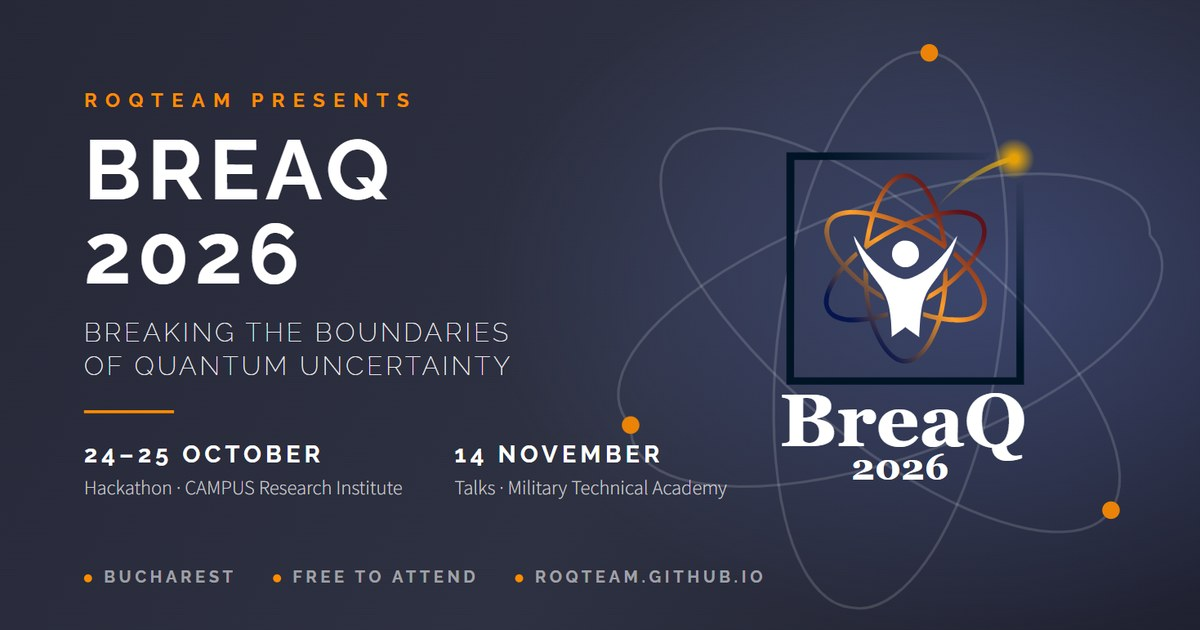
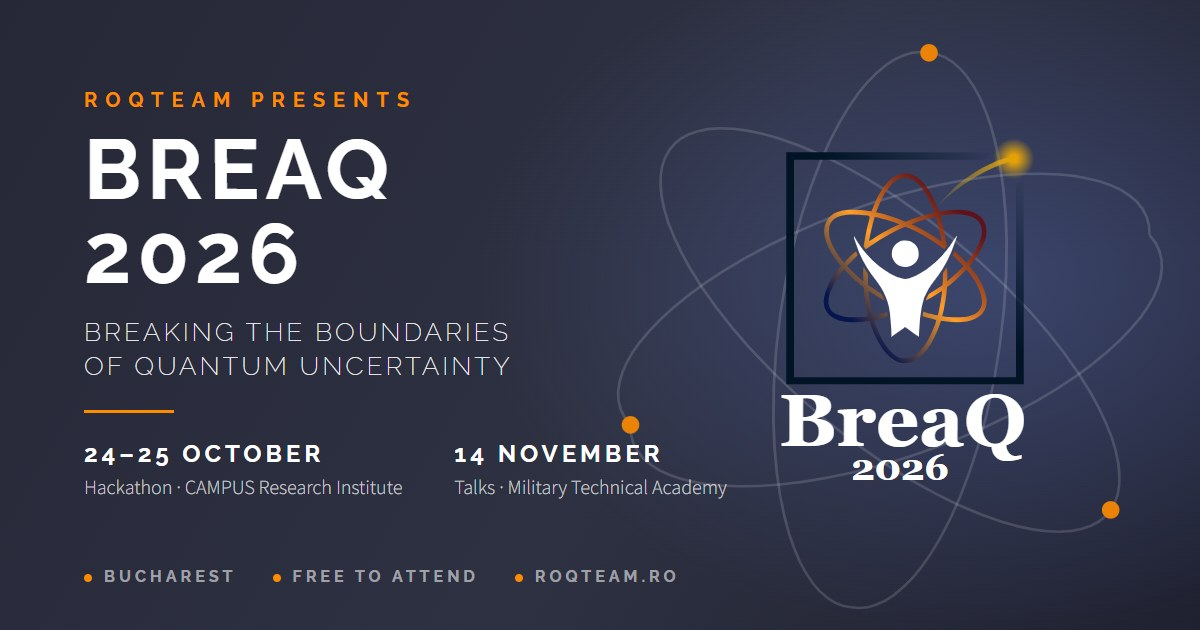
Site domain is roqteam.ro; calendar as a real .ics file with Google Calendar and webcal options
- All absolute URLs (Open Graph, JSON-LD, calendar files, share card) use
  https://roqteam.ro
- breaq-2026.ics is a static file: phones open it straight in their
  calendar app (iOS shows "Add All"); the button links to it
- Google Calendar one-tap links for each date, and a webcal subscription
  link for iPhone and Mac that follows later changes to the file
- Share card re-rendered with the domain; render source laid out 1:1

diff --git a/breaq.html b/breaq.html
@@ -6,12 +6,12 @@
 		<meta property="og:type" content="website" />
 		<meta property="og:title" content="BreaQ 2026 · Breaking the Boundaries of Quantum Uncertainty" />
 		<meta property="og:description" content="BreaQ 2026: a 24-hour quantum hackathon on 24–25 October at the CAMPUS Research Institute and a day of talks on 14 November at the Military Technical Academy “Ferdinand I”, Bucharest. Free to attend." />
-		<meta property="og:image" content="https://roqteam.github.io/images/share/breaq-2026.jpg" />
-		<meta property="og:url" content="https://roqteam.github.io/breaq.html" />
+		<meta property="og:image" content="https://roqteam.ro/images/share/breaq-2026.jpg" />
+		<meta property="og:url" content="https://roqteam.ro/breaq.html" />
 		<meta name="twitter:card" content="summary_large_image" />
 		<!-- Times below are approximate for the hackathon end and the talks; adjust with the programme -->
 		<script type="application/ld+json">
-		{"@context": "https://schema.org", "@type": "Event", "name": "BreaQ 2026", "description": "BreaQ 2026, RoQTeam's annual quantum event in Bucharest: a 24-hour quantum hackathon on 24–25 October at the CAMPUS Research Institute and a day of talks on 14 November at the Military Technical Academy “Ferdinand I”. Free to attend.", "image": "https://roqteam.github.io/images/share/breaq-2026.jpg", "url": "https://roqteam.github.io/breaq.html", "startDate": "2026-10-24T09:00:00+03:00", "endDate": "2026-11-14", "eventStatus": "https://schema.org/EventScheduled", "eventAttendanceMode": "https://schema.org/OfflineEventAttendanceMode", "location": [{"@type": "Place", "name": "CAMPUS Research Institute", "address": {"@type": "PostalAddress", "streetAddress": "Splaiul Independenței 313", "addressLocality": "București", "postalCode": "060042", "addressCountry": "RO"}}, {"@type": "Place", "name": "Military Technical Academy “Ferdinand I”", "address": {"@type": "PostalAddress", "streetAddress": "Bulevardul George Coșbuc 39-49", "addressLocality": "București", "postalCode": "050141", "addressCountry": "RO"}}], "subEvent": [{"@type": "Event", "name": "BreaQ 2026 Hackathon", "startDate": "2026-10-24T09:00:00+03:00", "endDate": "2026-10-25T14:00:00+02:00", "location": {"@type": "Place", "name": "CAMPUS Research Institute", "address": "Splaiul Independenței 313, București"}}, {"@type": "Event", "name": "BreaQ 2026 Presentations", "startDate": "2026-11-14T09:00:00+02:00", "endDate": "2026-11-14T18:00:00+02:00", "location": {"@type": "Place", "name": "Military Technical Academy “Ferdinand I”", "address": "Bulevardul George Coșbuc 39-49, București"}}], "organizer": {"@type": "Organization", "name": "RoQTeam", "url": "https://roqteam.github.io/", "email": "partnerships@roqteam.ro"}, "offers": {"@type": "Offer", "url": "https://forms.gle/o1wqxXgzeF2QGtxC7", "price": "0", "priceCurrency": "RON", "availability": "https://schema.org/InStock"}, "isAccessibleForFree": true}
+		{"@context": "https://schema.org", "@type": "Event", "name": "BreaQ 2026", "description": "BreaQ 2026, RoQTeam's annual quantum event in Bucharest: a 24-hour quantum hackathon on 24–25 October at the CAMPUS Research Institute and a day of talks on 14 November at the Military Technical Academy “Ferdinand I”. Free to attend.", "image": "https://roqteam.ro/images/share/breaq-2026.jpg", "url": "https://roqteam.ro/breaq.html", "startDate": "2026-10-24T09:00:00+03:00", "endDate": "2026-11-14", "eventStatus": "https://schema.org/EventScheduled", "eventAttendanceMode": "https://schema.org/OfflineEventAttendanceMode", "location": [{"@type": "Place", "name": "CAMPUS Research Institute", "address": {"@type": "PostalAddress", "streetAddress": "Splaiul Independenței 313", "addressLocality": "București", "postalCode": "060042", "addressCountry": "RO"}}, {"@type": "Place", "name": "Military Technical Academy “Ferdinand I”", "address": {"@type": "PostalAddress", "streetAddress": "Bulevardul George Coșbuc 39-49", "addressLocality": "București", "postalCode": "050141", "addressCountry": "RO"}}], "subEvent": [{"@type": "Event", "name": "BreaQ 2026 Hackathon", "startDate": "2026-10-24T09:00:00+03:00", "endDate": "2026-10-25T14:00:00+02:00", "location": {"@type": "Place", "name": "CAMPUS Research Institute", "address": "Splaiul Independenței 313, București"}}, {"@type": "Event", "name": "BreaQ 2026 Presentations", "startDate": "2026-11-14T09:00:00+02:00", "endDate": "2026-11-14T18:00:00+02:00", "location": {"@type": "Place", "name": "Military Technical Academy “Ferdinand I”", "address": "Bulevardul George Coșbuc 39-49, București"}}], "organizer": {"@type": "Organization", "name": "RoQTeam", "url": "https://roqteam.ro/", "email": "partnerships@roqteam.ro"}, "offers": {"@type": "Offer", "url": "https://forms.gle/o1wqxXgzeF2QGtxC7", "price": "0", "priceCurrency": "RON", "availability": "https://schema.org/InStock"}, "isAccessibleForFree": true}
 		</script>
 		<meta charset="utf-8" />
 		<meta name="viewport" content="width=device-width, initial-scale=1, user-scalable=no" />
@@ -319,7 +319,8 @@
 													</div>
 												</div>
 												<p>Speakers, the full schedule and the hackathon challenges are announced in the coming weeks, here and on <a href="https://www.linkedin.com/company/roqteam/" target="_blank" rel="noopener">RoQTeam’s LinkedIn</a>. Want to give a talk? <a href="mailto:partnerships@roqteam.ro">Write to us</a>. Curious what a track looks like? <a href="breaq-2025.html#hackathon">See last year’s challenges</a>.</p>
-												<p class="next-actions"><a href="https://forms.gle/o1wqxXgzeF2QGtxC7" target="_blank" rel="noopener" class="button primary">Register to hear first</a> <a href="#" class="button" data-ics-events='[{"summary":"BreaQ 2026 Hackathon","start":"2026-10-24T09:00:00+03:00","end":"2026-10-25T14:00:00+02:00","location":"CAMPUS Research Institute, Splaiul Independenței 313, București","description":"24-hour quantum hackathon. Details: https://roqteam.github.io/breaq.html"},{"summary":"BreaQ 2026 Presentations","start":"2026-11-14T09:00:00+02:00","end":"2026-11-14T18:00:00+02:00","location":"Military Technical Academy Ferdinand I, Bulevardul George Coșbuc 39-49, București","description":"Talks by researchers and industry experts. Details: https://roqteam.github.io/breaq.html"}]' data-ics-name="breaq-2026.ics">Add both dates to calendar</a></p>
+												<p class="next-actions"><a href="https://forms.gle/o1wqxXgzeF2QGtxC7" target="_blank" rel="noopener" class="button primary">Register to hear first</a> <a href="breaq-2026.ics" class="button" type="text/calendar">Add both dates to calendar</a></p>
+												<p class="next-gcal">Google Calendar, one tap: <a href="https://calendar.google.com/calendar/render?action=TEMPLATE&amp;text=BreaQ+2026+Hackathon&amp;dates=20261024T060000Z%2F20261025T120000Z&amp;location=CAMPUS+Research+Institute%2C+Splaiul+Independen%C8%9Bei+313%2C+Bucure%C8%99ti&amp;details=24-hour+quantum+hackathon.+Details%3A+https%3A%2F%2Froqteam.ro%2Fbreaq.html" target="_blank" rel="noopener">hackathon</a> · <a href="https://calendar.google.com/calendar/render?action=TEMPLATE&amp;text=BreaQ+2026+Presentations&amp;dates=20261114T070000Z%2F20261114T160000Z&amp;location=Military+Technical+Academy+Ferdinand+I%2C+Bulevardul+George+Co%C8%99buc+39-49%2C+Bucure%C8%99ti&amp;details=Talks+by+researchers+and+industry+experts.+Details%3A+https%3A%2F%2Froqteam.ro%2Fbreaq.html" target="_blank" rel="noopener">presentations</a> · iPhone and Mac: <a href="webcal://roqteam.ro/breaq-2026.ics">subscribe</a>, it updates itself if the times change</p>
 											</div>
 										</div>
 									</section>

diff --git a/assets/js/breaq.js b/assets/js/breaq.js
@@ -259,11 +259,11 @@
 			var now = stamp(new Date().toISOString());
 			var lines = ['BEGIN:VCALENDAR', 'VERSION:2.0', 'PRODID:-//RoQTeam//BreaQ//EN', 'CALSCALE:GREGORIAN', 'METHOD:PUBLISH'];
 			events.forEach(function (e, i) {
-				lines.push('BEGIN:VEVENT', 'UID:breaq-2026-' + i + '-' + stamp(e.start) + '@roqteam.github.io', 'DTSTAMP:' + now,
+				lines.push('BEGIN:VEVENT', 'UID:breaq-2026-' + i + '-' + stamp(e.start) + '@roqteam.ro', 'DTSTAMP:' + now,
 					'DTSTART:' + stamp(e.start), 'DTEND:' + stamp(e.end), 'SUMMARY:' + esc(e.summary));
 				if (e.location) lines.push('LOCATION:' + esc(e.location));
 				if (e.description) lines.push('DESCRIPTION:' + esc(e.description));
-				lines.push('URL:https://roqteam.github.io/breaq.html', 'END:VEVENT');
+				lines.push('URL:https://roqteam.ro/breaq.html', 'END:VEVENT');
 			});
 			lines.push('END:VCALENDAR');
 			var blob = new Blob([lines.join('\r\n') + '\r\n'], { type: 'text/calendar;charset=utf-8' });
@@ -564,14 +564,14 @@
 			var lines = ['BEGIN:VCALENDAR', 'VERSION:2.0', 'PRODID:-//RoQTeam//BreaQ//EN', 'CALSCALE:GREGORIAN', 'METHOD:PUBLISH'];
 			events.forEach(function (e, i) {
 				lines.push('BEGIN:VEVENT');
-				lines.push('UID:' + panel.id + '-' + i + '-' + e.start + '@roqteam.github.io');
+				lines.push('UID:' + panel.id + '-' + i + '-' + e.start + '@roqteam.ro');
 				lines.push('DTSTAMP:' + stamp);
 				lines.push('DTSTART:' + e.start);
 				lines.push('DTEND:' + e.end);
 				lines.push(icsFold('SUMMARY:' + icsEscape(e.summary)));
 				if (location) lines.push(icsFold('LOCATION:' + icsEscape(location)));
 				if (e.description) lines.push(icsFold('DESCRIPTION:' + icsEscape(e.description)));
-				lines.push('URL:https://roqteam.github.io/breaq.html#schedule');
+				lines.push('URL:https://roqteam.ro/breaq.html#schedule');
 				lines.push('END:VEVENT');
 			});
 			lines.push('END:VCALENDAR');

diff --git a/tools/share-card.html b/tools/share-card.html
@@ -33,8 +33,8 @@
 		.card .foot i { display: inline-block; width: 8px; height: 8px; border-radius: 50%; background: #ff8c00; margin-right: 12px; vertical-align: middle; }
 		.icon { position: relative; width: 256px; height: 256px; border-radius: 56px; background: linear-gradient(135deg, #34385a 0%, #262838 100%); overflow: hidden; }
 		.icon img { position: absolute; left: 18px; top: 10px; width: 220px; height: 220px; }
-		/* laid out for capture: scaled so a 1200x630 capture of the browser frame is 1:1 */
-		.stage { position: absolute; left: 0; top: 0; transform: scale(1.2245); transform-origin: 0 0; }
+		/* laid out for capture at 1:1 CSS pixels: the card is exactly 1200x630 */
+		.stage { position: absolute; left: 0; top: 0; }
 		.stage .icon { position: absolute; left: 1240px; top: 0; }
 	</style>
 </head>
@@ -60,7 +60,7 @@
 					<div class="fact"><b>14 November</b><span>Talks · Military Technical Academy</span></div>
 				</div>
 			</div>
-			<div class="foot"><span><i></i>Bucharest</span><span><i></i>Free to attend</span><span><i></i>roqteam.github.io</span></div>
+			<div class="foot"><span><i></i>Bucharest</span><span><i></i>Free to attend</span><span><i></i>roqteam.ro</span></div>
 		</div>
 		<div class="icon"><img src="../images/BreaQ_logo_2026-light.svg" alt="" /></div>
 	</div>

diff --git a/challenges/entangled-learning.html b/challenges/entangled-learning.html
@@ -8,8 +8,8 @@
 		<meta property="og:type" content="website" />
 		<meta property="og:title" content="Entangled Learning · BreaQ hackathon challenge" />
 		<meta property="og:description" content="Build, train and evaluate quantum and hybrid models in PennyLane on a dataset chosen to be hard for classical learners. 24–25 October 2026 at the CAMPUS Research Institute, Bucharest." />
-		<meta property="og:image" content="https://roqteam.github.io/images/quantum_machine_learning.png" />
-		<meta property="og:url" content="https://roqteam.github.io/challenges/entangled-learning.html" />
+		<meta property="og:image" content="https://roqteam.ro/images/quantum_machine_learning.png" />
+		<meta property="og:url" content="https://roqteam.ro/challenges/entangled-learning.html" />
 		<meta name="twitter:card" content="summary_large_image" />
 		<link rel="stylesheet" href="../assets/css/main.css" />
 		<link rel="stylesheet" href="../assets/css/breaq.css" />

diff --git a/assets/css/breaq.css b/assets/css/breaq.css
@@ -591,7 +591,13 @@
 			display: flex;
 			flex-wrap: wrap;
 			gap: 0.75em 1em;
+			margin: 0 0 0.9em 0;
+		}
+
+		.next-body .next-gcal {
 			margin: 0;
+			font-size: 0.72em;
+			color: var(--bq-fg-light);
 		}
 
 	.next-count {
